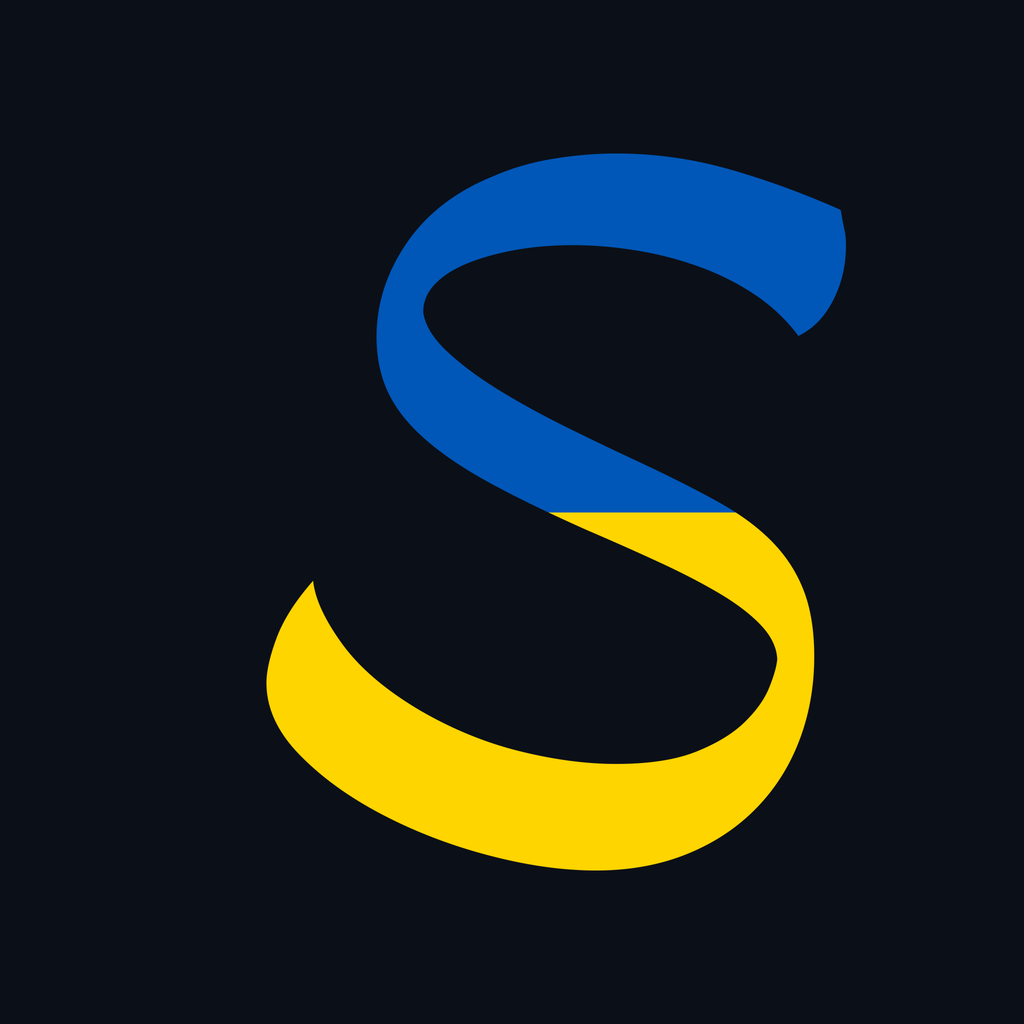
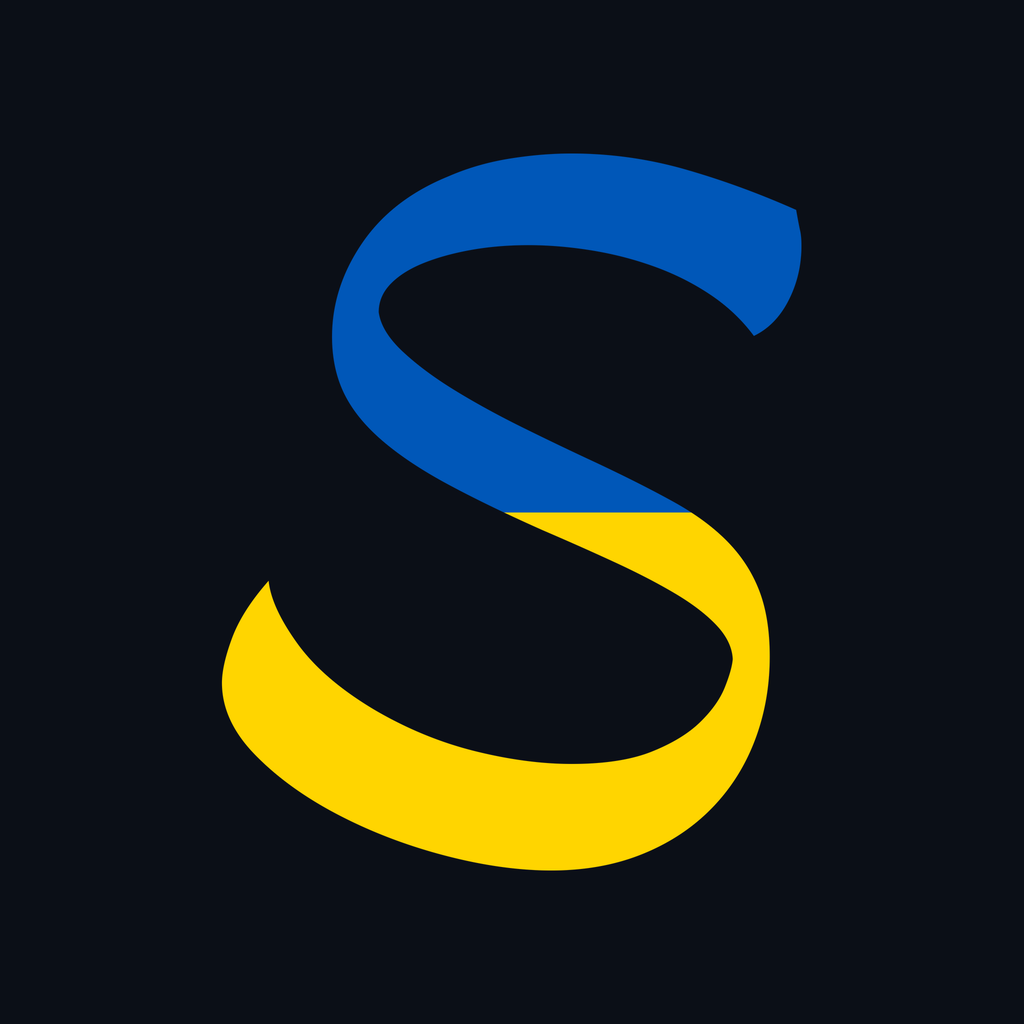
Офіційні арти ігор на першому екрані й у картках, рівна сітка
- перший екран і картки ігор – з офіційних артів, плавні краї
- однакові відступи карток і розділів, на планшеті картки в рядок
- «S» в аватарці й значках точно по центру

diff --git a/index.html b/index.html
@@ -30,7 +30,7 @@
 :root{
   --bg:#0b0f17;--surface:#131a26;--surface-2:#1a2332;--line:#243044;
   --text:#eef2f8;--muted:#a3aec0;--blue:#0057b8;--blue-hi:#2f7ee0;--yellow:#ffd500;
-  --r:20px;--gut:16px;
+  --r:20px;--gut:16px;--pad:clamp(22px,2.4vw,28px);
   --head:"Fira Sans Condensed",system-ui,sans-serif;--body:"Fira Sans",system-ui,sans-serif;
 }
 *{box-sizing:border-box}
@@ -68,9 +68,10 @@ header{position:sticky;top:0;z-index:10;background:rgb(11 15 23 / .82);backdrop-
 /* перший екран */
 .hero{padding:clamp(48px,8vw,104px) 0 clamp(16px,3vw,32px);display:grid;grid-template-columns:minmax(0,1fr) minmax(0,1fr);gap:clamp(28px,4vw,56px);align-items:center}
 @media (max-width:900px){.hero{grid-template-columns:1fr}}
-.collage{display:grid;grid-template-columns:1.35fr 1fr;grid-template-rows:1fr 1fr;gap:12px;aspect-ratio:16/11}
-.collage img{width:100%;height:100%;object-fit:cover;border-radius:16px;box-shadow:0 0 0 1px var(--line),0 18px 40px rgb(0 0 0 / .4)}
-.collage img:first-child{grid-row:1 / span 2}
+.hero-art{--m:linear-gradient(90deg,transparent,#000 18%,#000 86%,transparent),linear-gradient(transparent,#000 20%,#000 76%,transparent);margin:0 calc(-1 * var(--gut));aspect-ratio:5/4;-webkit-mask:var(--m);-webkit-mask-composite:source-in;mask:var(--m);mask-composite:intersect}
+.hero-art img{width:100%;height:100%;object-fit:cover}
+@media (min-width:600px){.hero-art{width:min(600px,100%);margin:0 auto}}
+@media (min-width:901px){.hero-art{width:auto;margin:0}}
 .hero-text{min-width:0}
 h1{font:700 clamp(46px,12vw,112px)/.92 var(--head);margin:0 0 28px;text-transform:uppercase;letter-spacing:-.01em}
 h1 span{display:block;color:var(--yellow)}
@@ -83,25 +84,27 @@ h2{font:700 clamp(36px,6vw,56px)/1 var(--head);margin:0 0 12px;text-transform:up
 .sub{color:var(--muted);margin:0 0 32px;font-size:18px;max-width:60ch;text-wrap:pretty}
 
 /* ігри */
-.games{display:grid;grid-template-columns:repeat(auto-fit,minmax(min(100%,340px),1fr));gap:20px}
+.games{display:grid;grid-template-columns:1fr;gap:20px}
+@media (min-width:980px){.games{grid-template-columns:repeat(3,1fr)}.game h3{min-height:2.1em}}
 .game{background:var(--surface);border-radius:var(--r);overflow:hidden;display:flex;flex-direction:column;box-shadow:inset 0 0 0 1px var(--line);transition:transform .25s,box-shadow .25s}
 .game:hover{transform:translateY(-3px);box-shadow:inset 0 0 0 1px #34445e,0 20px 50px rgb(0 0 0 / .35)}
 .shot{position:relative;aspect-ratio:16/9;overflow:hidden;background:#05070b}
 .shot img{width:100%;height:100%;object-fit:cover;transition:transform .6s}
 .game:hover .shot img{transform:scale(1.03)}
 .badge{position:absolute;right:14px;top:14px;background:var(--yellow);color:#14161a;font:700 14px/1 var(--head);text-transform:uppercase;letter-spacing:.04em;padding:8px 12px;border-radius:999px}
-.body{padding:22px 22px 24px;display:flex;flex-direction:column;gap:14px;flex:1}
-h3{font:700 clamp(26px,3.4vw,32px)/1.05 var(--head);margin:0}
+.body{padding:var(--pad);display:flex;flex-direction:column;gap:14px;flex:1}
+h3{font:700 clamp(26px,3.4vw,32px)/1.05 var(--head);margin:0;text-wrap:balance}
 .facts{display:flex;flex-wrap:wrap;gap:8px;margin:0;padding:0;list-style:none}
 .facts li{background:var(--surface-2);color:#d6dce7;font-size:15px;padding:7px 12px;border-radius:999px}
 .game p,.card p{margin:0;color:var(--muted);text-wrap:pretty}
 .game .btns{margin-top:auto;padding-top:6px}
 .game .btn-g{flex:1}
 .game .btn-y{flex:1 1 100%}
+@media (min-width:640px) and (max-width:979px){.game{flex-direction:row}.shot{flex:0 0 42%;aspect-ratio:auto;min-height:240px}.shot img{position:absolute;inset:0}}
 
 /* у роботі */
 .next{display:grid;grid-template-columns:repeat(auto-fit,minmax(min(100%,340px),1fr));gap:20px}
-.card{border-radius:var(--r);padding:26px;background:linear-gradient(160deg,var(--surface-2),var(--surface));box-shadow:inset 0 0 0 1px var(--line);display:flex;flex-direction:column;gap:14px}
+.card{border-radius:var(--r);padding:var(--pad);background:linear-gradient(160deg,var(--surface-2),var(--surface));box-shadow:inset 0 0 0 1px var(--line);display:flex;flex-direction:column;gap:14px}
 .tag{align-self:flex-start;font:600 14px/1 var(--head);text-transform:uppercase;letter-spacing:.05em;color:var(--yellow);display:flex;align-items:center;gap:8px}
 .tag::before{content:"";width:8px;height:8px;border-radius:50%;background:var(--yellow);box-shadow:0 0 0 0 rgb(255 213 0 / .6);animation:pulse 2s infinite}
 @keyframes pulse{70%{box-shadow:0 0 0 8px rgb(255 213 0 / 0)}100%{box-shadow:0 0 0 0 rgb(255 213 0 / 0)}}
@@ -109,14 +112,13 @@ h3{font:700 clamp(26px,3.4vw,32px)/1.05 var(--head);margin:0}
 .card .btns{margin-top:auto}
 
 /* Steppe */
-#steppe{padding-top:0}
-.steppe{display:flex;flex-wrap:wrap;align-items:center;justify-content:space-between;gap:20px 32px;padding:clamp(24px,4vw,40px);border-radius:var(--r);background:linear-gradient(160deg,var(--surface-2),var(--surface));box-shadow:inset 0 0 0 1px var(--line)}
+.steppe{display:flex;flex-wrap:wrap;align-items:center;justify-content:space-between;gap:20px 32px;padding:var(--pad);border-radius:var(--r);background:linear-gradient(160deg,var(--surface-2),var(--surface));box-shadow:inset 0 0 0 1px var(--line)}
 .steppe>div{flex:1 1 420px;min-width:0}
 .steppe img{height:clamp(44px,6vw,64px);width:auto;margin:0 0 16px}
 .steppe p{margin:0;color:var(--muted);max-width:56ch;text-wrap:pretty}
 
 /* підтримка */
-.support{border-radius:28px;padding:clamp(28px,5vw,56px);background:linear-gradient(135deg,#0a3f84,var(--blue) 60%,#0b4a9a)}
+.support{border-radius:28px;padding:calc(var(--pad) * 2);background:linear-gradient(135deg,#0a3f84,var(--blue) 60%,#0b4a9a)}
 .support h2{color:#fff}
 .support .sub{color:#d7e5ff}
 .support .note{margin:22px 0 0;color:#d7e5ff;font-size:16px}
@@ -163,10 +165,8 @@ footer{padding:40px 0 56px;color:var(--muted);font-size:15px}
       </button>
     </div>
     </div>
-    <div class="collage" aria-hidden="true">
-      <img src="assets/waw-640.jpg" srcset="assets/waw-640.jpg 640w, assets/waw.jpg 1280w" sizes="(max-width:900px) 60vw, 330px" alt="" width="640" height="360">
-      <img src="assets/bannerlord-640.jpg" alt="" width="640" height="360">
-      <img src="assets/rimworld-card-640.jpg" alt="" width="640" height="360">
+    <div class="hero-art" aria-hidden="true">
+      <img src="assets/art-hero-640.jpg" srcset="assets/art-hero-640.jpg 640w, assets/art-hero.jpg 1200w" sizes="(max-width:900px) 100vw, 560px" alt="" width="1200" height="960" fetchpriority="high">
     </div>
   </div>
 
@@ -177,7 +177,7 @@ footer{padding:40px 0 56px;color:var(--muted);font-size:15px}
       <div class="games">
         <article class="game rise">
           <div class="shot">
-            <img src="assets/waw-640.jpg" srcset="assets/waw-640.jpg 640w, assets/waw.jpg 1280w" sizes="(max-width:980px) 100vw, 560px" alt="Українські субтитри в кампанії Call of Duty: World at War" width="1280" height="720" loading="lazy">
+            <img src="assets/art-waw-640.jpg" srcset="assets/art-waw-640.jpg 640w, assets/art-waw.jpg 1280w" sizes="(max-width:980px) 100vw, 560px" alt="Call of Duty: World at War" width="1280" height="720" loading="lazy">
             <span class="badge">Готово</span>
           </div>
           <div class="body">
@@ -195,11 +195,11 @@ footer{padding:40px 0 56px;color:var(--muted);font-size:15px}
         </article>
         <article class="game rise">
           <div class="shot">
-            <img src="assets/bannerlord-640.jpg" srcset="assets/bannerlord-640.jpg 640w, assets/bannerlord.jpg 1280w" sizes="(max-width:980px) 100vw, 560px" alt="Головне меню Mount &amp; Blade II: Bannerlord українською" width="1280" height="720" loading="lazy">
+            <img src="assets/art-bannerlord-640.jpg" srcset="assets/art-bannerlord-640.jpg 640w, assets/art-bannerlord.jpg 1280w" sizes="(max-width:980px) 100vw, 560px" alt="Mount &amp; Blade II: Bannerlord" width="1280" height="720" loading="lazy">
             <span class="badge">Готово</span>
           </div>
           <div class="body">
-            <h3>Mount &amp; Blade II: Bannerlord</h3>
+            <h3>Mount&nbsp;&amp;&nbsp;Blade&nbsp;II: Bannerlord</h3>
             <ul class="facts">
               <li>Кампанія</li><li>Мережева гра</li><li>Відмінки й рід</li><li>Субтитри</li>
             </ul>
@@ -213,7 +213,7 @@ footer{padding:40px 0 56px;color:var(--muted);font-size:15px}
         </article>
         <article class="game rise">
           <div class="shot">
-            <img src="assets/rimworld-card-640.jpg" srcset="assets/rimworld-card-640.jpg 640w, assets/rimworld-card.jpg 1280w" sizes="(max-width:980px) 100vw, 560px" alt="Планета RimWorld" width="1280" height="720" loading="lazy">
+            <img src="assets/art-rimworld-640.jpg" srcset="assets/art-rimworld-640.jpg 640w, assets/art-rimworld.jpg 1280w" sizes="(max-width:980px) 100vw, 560px" alt="RimWorld" width="1280" height="720" loading="lazy">
             <span class="badge">Готово</span>
           </div>
           <div class="body">
@@ -298,7 +298,7 @@ footer{padding:40px 0 56px;color:var(--muted);font-size:15px}
 (() => {
   const io = 'IntersectionObserver' in window && new IntersectionObserver(es => es.forEach(e => {
     if (e.isIntersecting) { e.target.classList.add('in'); io.unobserve(e.target); }
-  }), { rootMargin: '0px 0px -8% 0px' });
+  }), { threshold: 0 });
   document.querySelectorAll('.rise').forEach(el => io ? io.observe(el) : el.classList.add('in'));
 
   const toast = document.querySelector('.toast');
